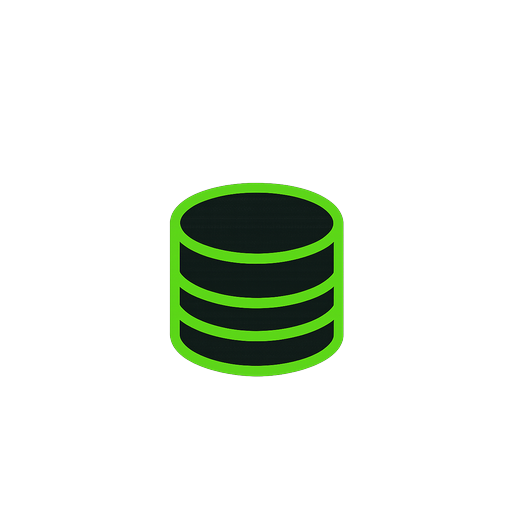
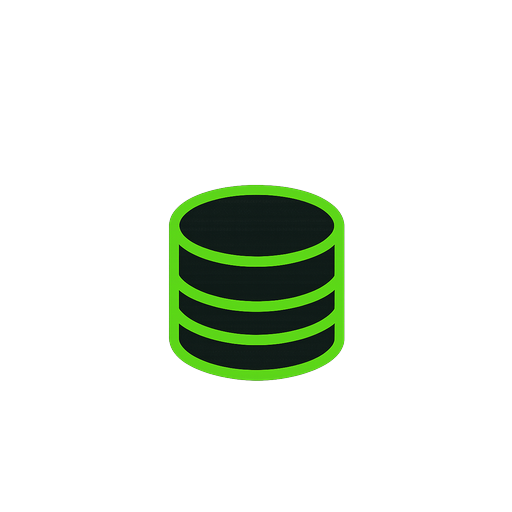
Agrandar más icono BD y agregar acento en 'área'

Changed region(s): [[0.3125, 0.3438, 0.6875, 0.75]]

diff --git a/src/vistas/pantallas/PantallaAreas.jsx b/src/vistas/pantallas/PantallaAreas.jsx
@@ -362,7 +362,7 @@ export default function PantallaAreas({ onSeleccionar, controladorPerfil, onVerA
         )}
         <div className="absolute bottom-5 left-0 right-0 text-center px-6">
           <h1 className="text-4xl font-bold text-white tracking-tight font-sans drop-shadow-lg">DevLab</h1>
-          <p className="text-white/60 mt-1 text-sm font-sans">Elige un area de estudio</p>
+          <p className="text-white/60 mt-1 text-sm font-sans">Elige un área de estudio</p>
         </div>
       </div>
 